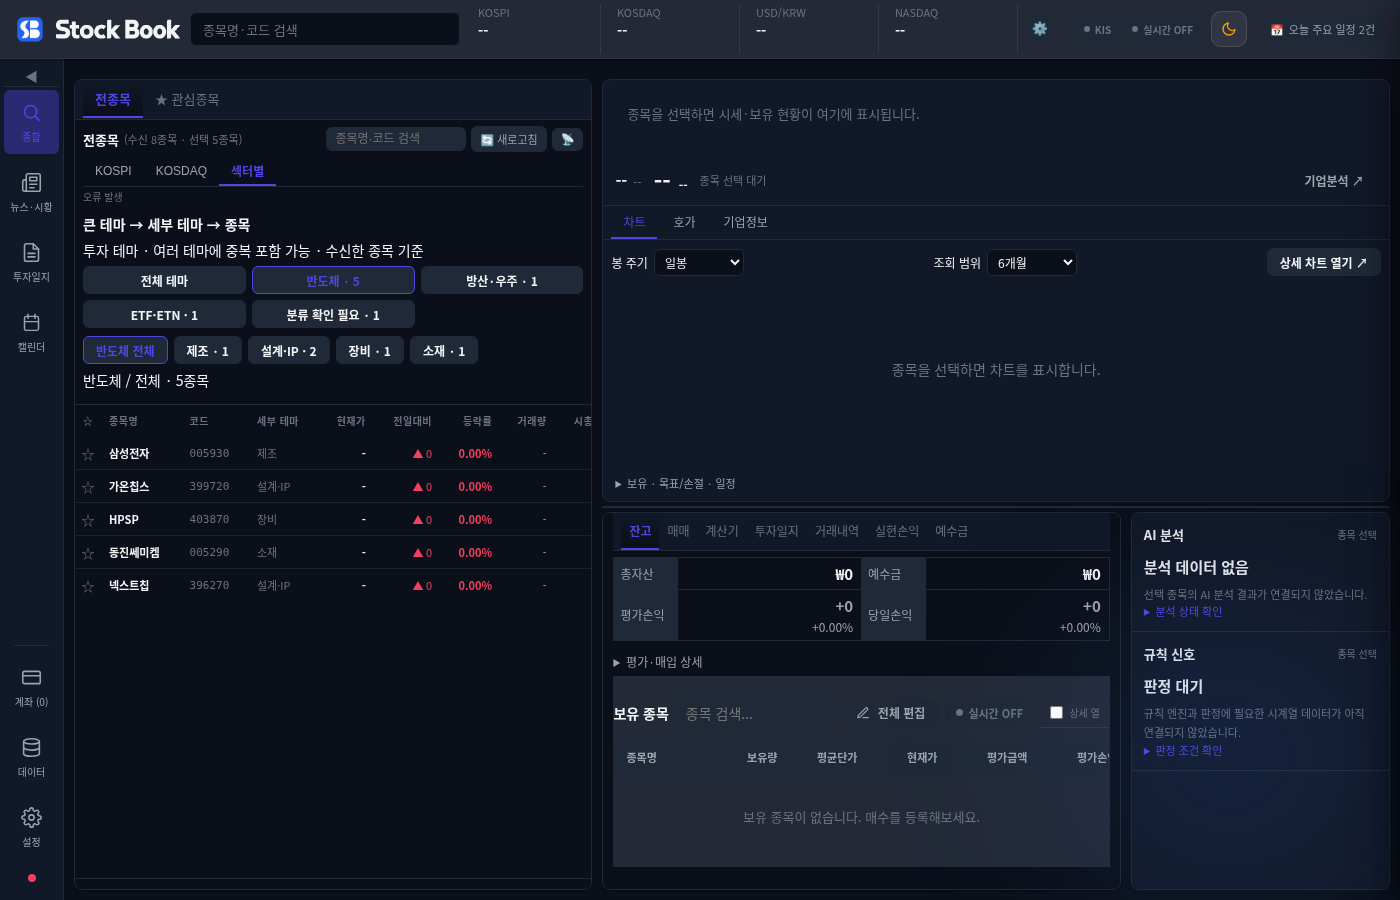
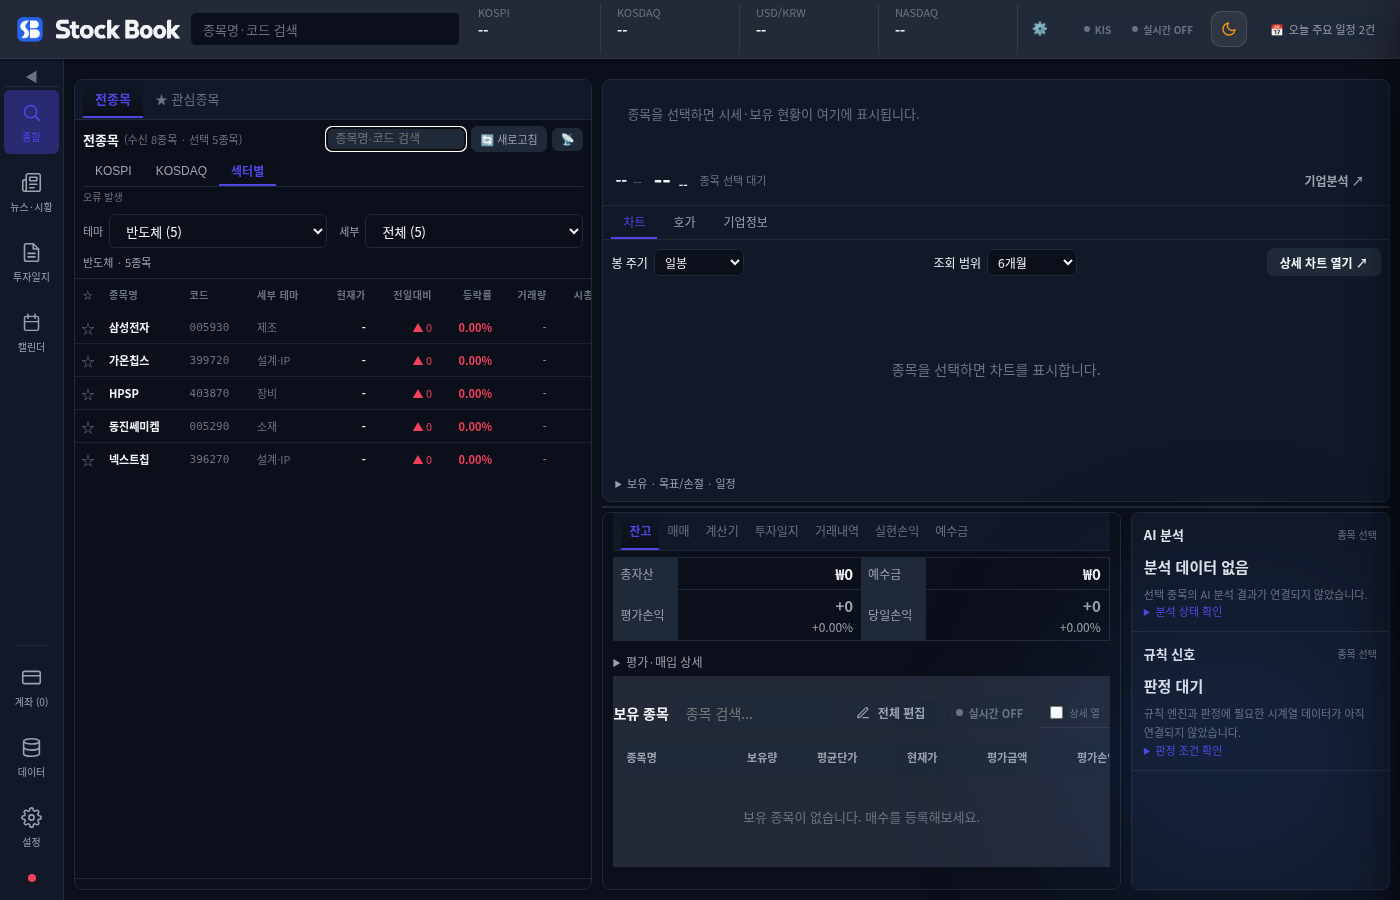
fix(ui): 테마 탐색을 간결한 선택 상자로 정리

diff --git a/src/desktop/theme-browser.js b/src/desktop/theme-browser.js
@@ -12,27 +12,30 @@
   const leafCounts=new Map();
   for(const r of groupRows)for(const l of new Set(r.paths.filter(p=>p.group===group).map(p=>p.leaf)))leafCounts.set(l,(leafCounts.get(l)||0)+1);
   if(leaf&&!leafCounts.has(leaf))leaf='';
+  const focused=host.contains(document.activeElement)?document.activeElement.getAttribute('aria-label'):null;
   host.replaceChildren();
-  const heading=document.createElement('strong');heading.textContent='큰 테마 → 세부 테마 → 종목';host.appendChild(heading);
-  const note=document.createElement('p');note.className='sb-data-note';note.textContent='투자 테마 · 여러 테마에 중복 포함 가능 · 수신한 종목 기준';host.appendChild(note);
-  const grid=document.createElement('div');grid.className='sb-theme-grid';grid.setAttribute('aria-label','큰 테마');host.appendChild(grid);
-  function button(parent,label,active,action){const b=document.createElement('button');b.type='button';b.className='sb-btn sb-btn--sm';b.textContent=label;b.setAttribute('aria-pressed',String(active));b.onclick=action;parent.appendChild(b);return b;}
+  const toolbar=document.createElement('div');toolbar.className='sb-theme-toolbar';host.appendChild(toolbar);
+  function field(labelText,accessibleName,items,value,change,disabled=false){
+   const label=document.createElement('label');label.className='sb-theme-field';
+   const text=document.createElement('span');text.textContent=labelText;label.appendChild(text);
+   const input=document.createElement('select');input.className='sb-select';input.setAttribute('aria-label',accessibleName);input.disabled=disabled;
+   for(const [key,caption] of items){const option=document.createElement('option');option.value=key;option.textContent=caption;input.appendChild(option);}
+   input.value=value;input.onchange=()=>change(input.value);label.appendChild(input);toolbar.appendChild(label);return input;
+  }
   const select=(g,l)=>{group=g;leaf=l;onChange();};
-  button(grid,'전체 테마',!group,()=>select('',''));
-  for(const g of Object.keys(root.StockBookThemes.groups))if(groupCounts.has(g)){
-   const b=button(grid,g+' · '+groupCounts.get(g),group===g,()=>select(g,''));b.dataset.themeGroup=g;
-  }
-  const children=document.createElement('div');children.className='sb-theme-children';children.setAttribute('aria-label','세부 테마');host.appendChild(children);
-  if(group){
-   button(children,group+' 전체',!leaf,()=>select(group,''));
-   for(const l of leafCounts.keys()) {const b=button(children,l+' · '+leafCounts.get(l),leaf===l,()=>select(group,l));b.dataset.themeLeaf=l;}
-  }
+  const parents=[['','큰 테마 선택'],...Object.keys(root.StockBookThemes.groups).filter(g=>groupCounts.has(g)).map(g=>[g,g+' ('+groupCounts.get(g)+')'])];
+  field('테마','큰 테마',parents,group,g=>select(g,''));
+  const children=[['',group?'전체 ('+groupRows.length+')':'테마 선택 후 표시'],...[...leafCounts].map(([l,count])=>[l,l+' ('+count+')'])];
+  field('세부','세부 테마',children,leaf,l=>select(group,l),!group);
   const selected=group?groupRows.filter(r=>!leaf||r.paths.some(p=>p.group===group&&p.leaf===leaf)):[];
   const status=document.createElement('p');status.className='sb-data-note';status.setAttribute('role','status');
-  status.textContent=group?group+' / '+(leaf||'전체')+' · '+selected.length+'종목':'큰 테마를 선택하세요. 검색은 종목명·코드·테마명으로 가능합니다.';
+  status.classList.add('sb-theme-path');status.title='투자 테마 · 여러 테마에 중복 포함 가능 · 수신한 종목 기준';
+  status.textContent=group?group+(leaf?' › '+leaf:'')+' · '+selected.length+'종목':'큰 테마를 고르면 세부 테마와 종목을 볼 수 있습니다.';
   host.appendChild(status);
-  if(!records.length){const b=button(host,'KOSPI·KOSDAQ 종목 불러오기',false,()=>root._loadSectorData());b.id='sbThemeLoad';}
-  else if(!stocks.some(s=>s.market==='KOSDAQ'))button(host,'전체 시장 자료 확인·불러오기',false,()=>root._loadSectorData());
+  if(!records.length||!stocks.some(s=>s.market==='KOSDAQ')){
+   const load=document.createElement('button');load.type='button';load.className='sb-btn sb-btn--ghost sb-btn--sm';load.textContent=records.length?'시장 자료 추가':'종목 불러오기';load.id='sbThemeLoad';load.onclick=()=>root._loadSectorData();host.appendChild(load);
+  }
+  if(focused)for(const input of toolbar.querySelectorAll('select'))if(input.getAttribute('aria-label')===focused)input.focus({preventScroll:true});
   return selected.map(r=>({...r.stock,themeLabel:r.paths.filter(p=>p.group===group&&(!leaf||p.leaf===leaf)).map(p=>p.leaf).join(' · '),themeBasis:[...new Set(r.paths.filter(p=>p.group===group).map(p=>p.basis))].join(' · ')})).sort((a,b)=>(b.marketCap||0)-(a.marketCap||0));
  }};
 })(window);

diff --git a/src/desktop/themes.css b/src/desktop/themes.css
@@ -1,7 +1,6 @@
-.sb-theme-explorer { flex:0 0 auto; min-height:0; max-height:40%; overflow:auto; padding:8px; border-bottom:1px solid var(--sb-border); color:var(--sb-text-1); }
-.sb-theme-explorer p { margin:6px 0; }
-.sb-theme-grid { display:grid; grid-template-columns:repeat(3,minmax(0,1fr)); gap:6px; }
-.sb-theme-grid .sb-btn { white-space:normal; text-align:left; min-width:0; }
-.sb-theme-explorer .sb-btn[aria-pressed="true"] { border-color:var(--sb-accent); color:var(--sb-accent); background:var(--sb-surface); }
-.sb-theme-children { display:flex; flex-wrap:wrap; gap:6px; margin-top:8px; }
-@media(max-width:1100px) { .sb-theme-grid { grid-template-columns:repeat(2,minmax(0,1fr)); } }
+.sb-theme-explorer { flex:0 0 auto; min-height:0; padding:8px; border-bottom:1px solid var(--sb-border); color:var(--sb-text-1); }
+.sb-theme-toolbar { display:grid; grid-template-columns:repeat(2,minmax(0,1fr)); gap:12px; }
+.sb-theme-field { display:flex; align-items:center; gap:6px; min-width:0; }
+.sb-theme-field > span { flex:0 0 auto; font-size:11px; color:var(--sb-text-2); }
+.sb-theme-field > .sb-select { flex:1; width:100%; min-width:0; }
+.sb-theme-explorer .sb-theme-path { margin:6px 0 0; font-size:11px; color:var(--sb-text-2); }

diff --git a/docs/design/theme-browser/README.md b/docs/design/theme-browser/README.md
@@ -1,10 +1,10 @@
 # 큰 테마 → 세부 테마 → 종목
 
-사용자 승인에 따라 섹터별의 전체 종목 일렬 나열을 큰 테마 선택 그리드와 세부 필터로 변경한다. 상위 테마 전체 및 개별 세부 테마에서 종목을 조회하며, 같은 종목은 여러 경로에 포함될 수 있다. 표 안에서는 코드로 중복을 제거한다.
+사용자 승인에 따라 섹터별의 전체 종목 일렬 나열을 한 줄의 큰 테마·세부 테마 선택 상자로 변경한다. 상위 테마 전체 및 개별 세부 테마에서 종목을 조회하며, 같은 종목은 여러 경로에 포함될 수 있다. 표 안에서는 코드로 중복을 제거한다.
 
 - `src/desktop/themes.js`: 관리 테마·종목 코드 분류·수신 업종 키워드·기존 분류 호환. 공식 산업분류라고 주장하지 않는다.
 - `src/desktop/theme-browser.js`: 선택 상태·테마/종목 검색·건수·DOM 안전한 탐색 UI.
-- `src/desktop/themes.css`: 토큰 기반 2~3열 선택 영역. 기존 종목 표·페이지 이동·관심 추가·기업분석·뉴스 선택 동작을 재사용한다.
+- `src/desktop/themes.css`: 토큰 기반의 두 선택 상자와 현재 경로 표시. 기존 종목 표·페이지 이동·관심 추가·기업분석·뉴스 선택 동작을 재사용한다.
 - 반도체: 제조, 설계/IP, 장비, 소재, 검사/패키징. 가온칩스·넥스트칩·오픈엣지·HPSP 등 코드별 경로 보완.
 - ETF/ETN 상품은 반도체 기업으로 집계하지 않는다. 수신 상품 유형 또는 알려진 상품명 접두어로 별도 구분한다.
 - 분류 근거가 없으면 ‘분류 확인 필요’, 상위 추정만 가능하면 ‘세부분류 확인 필요’. 기타에 숨기지 않는다.
